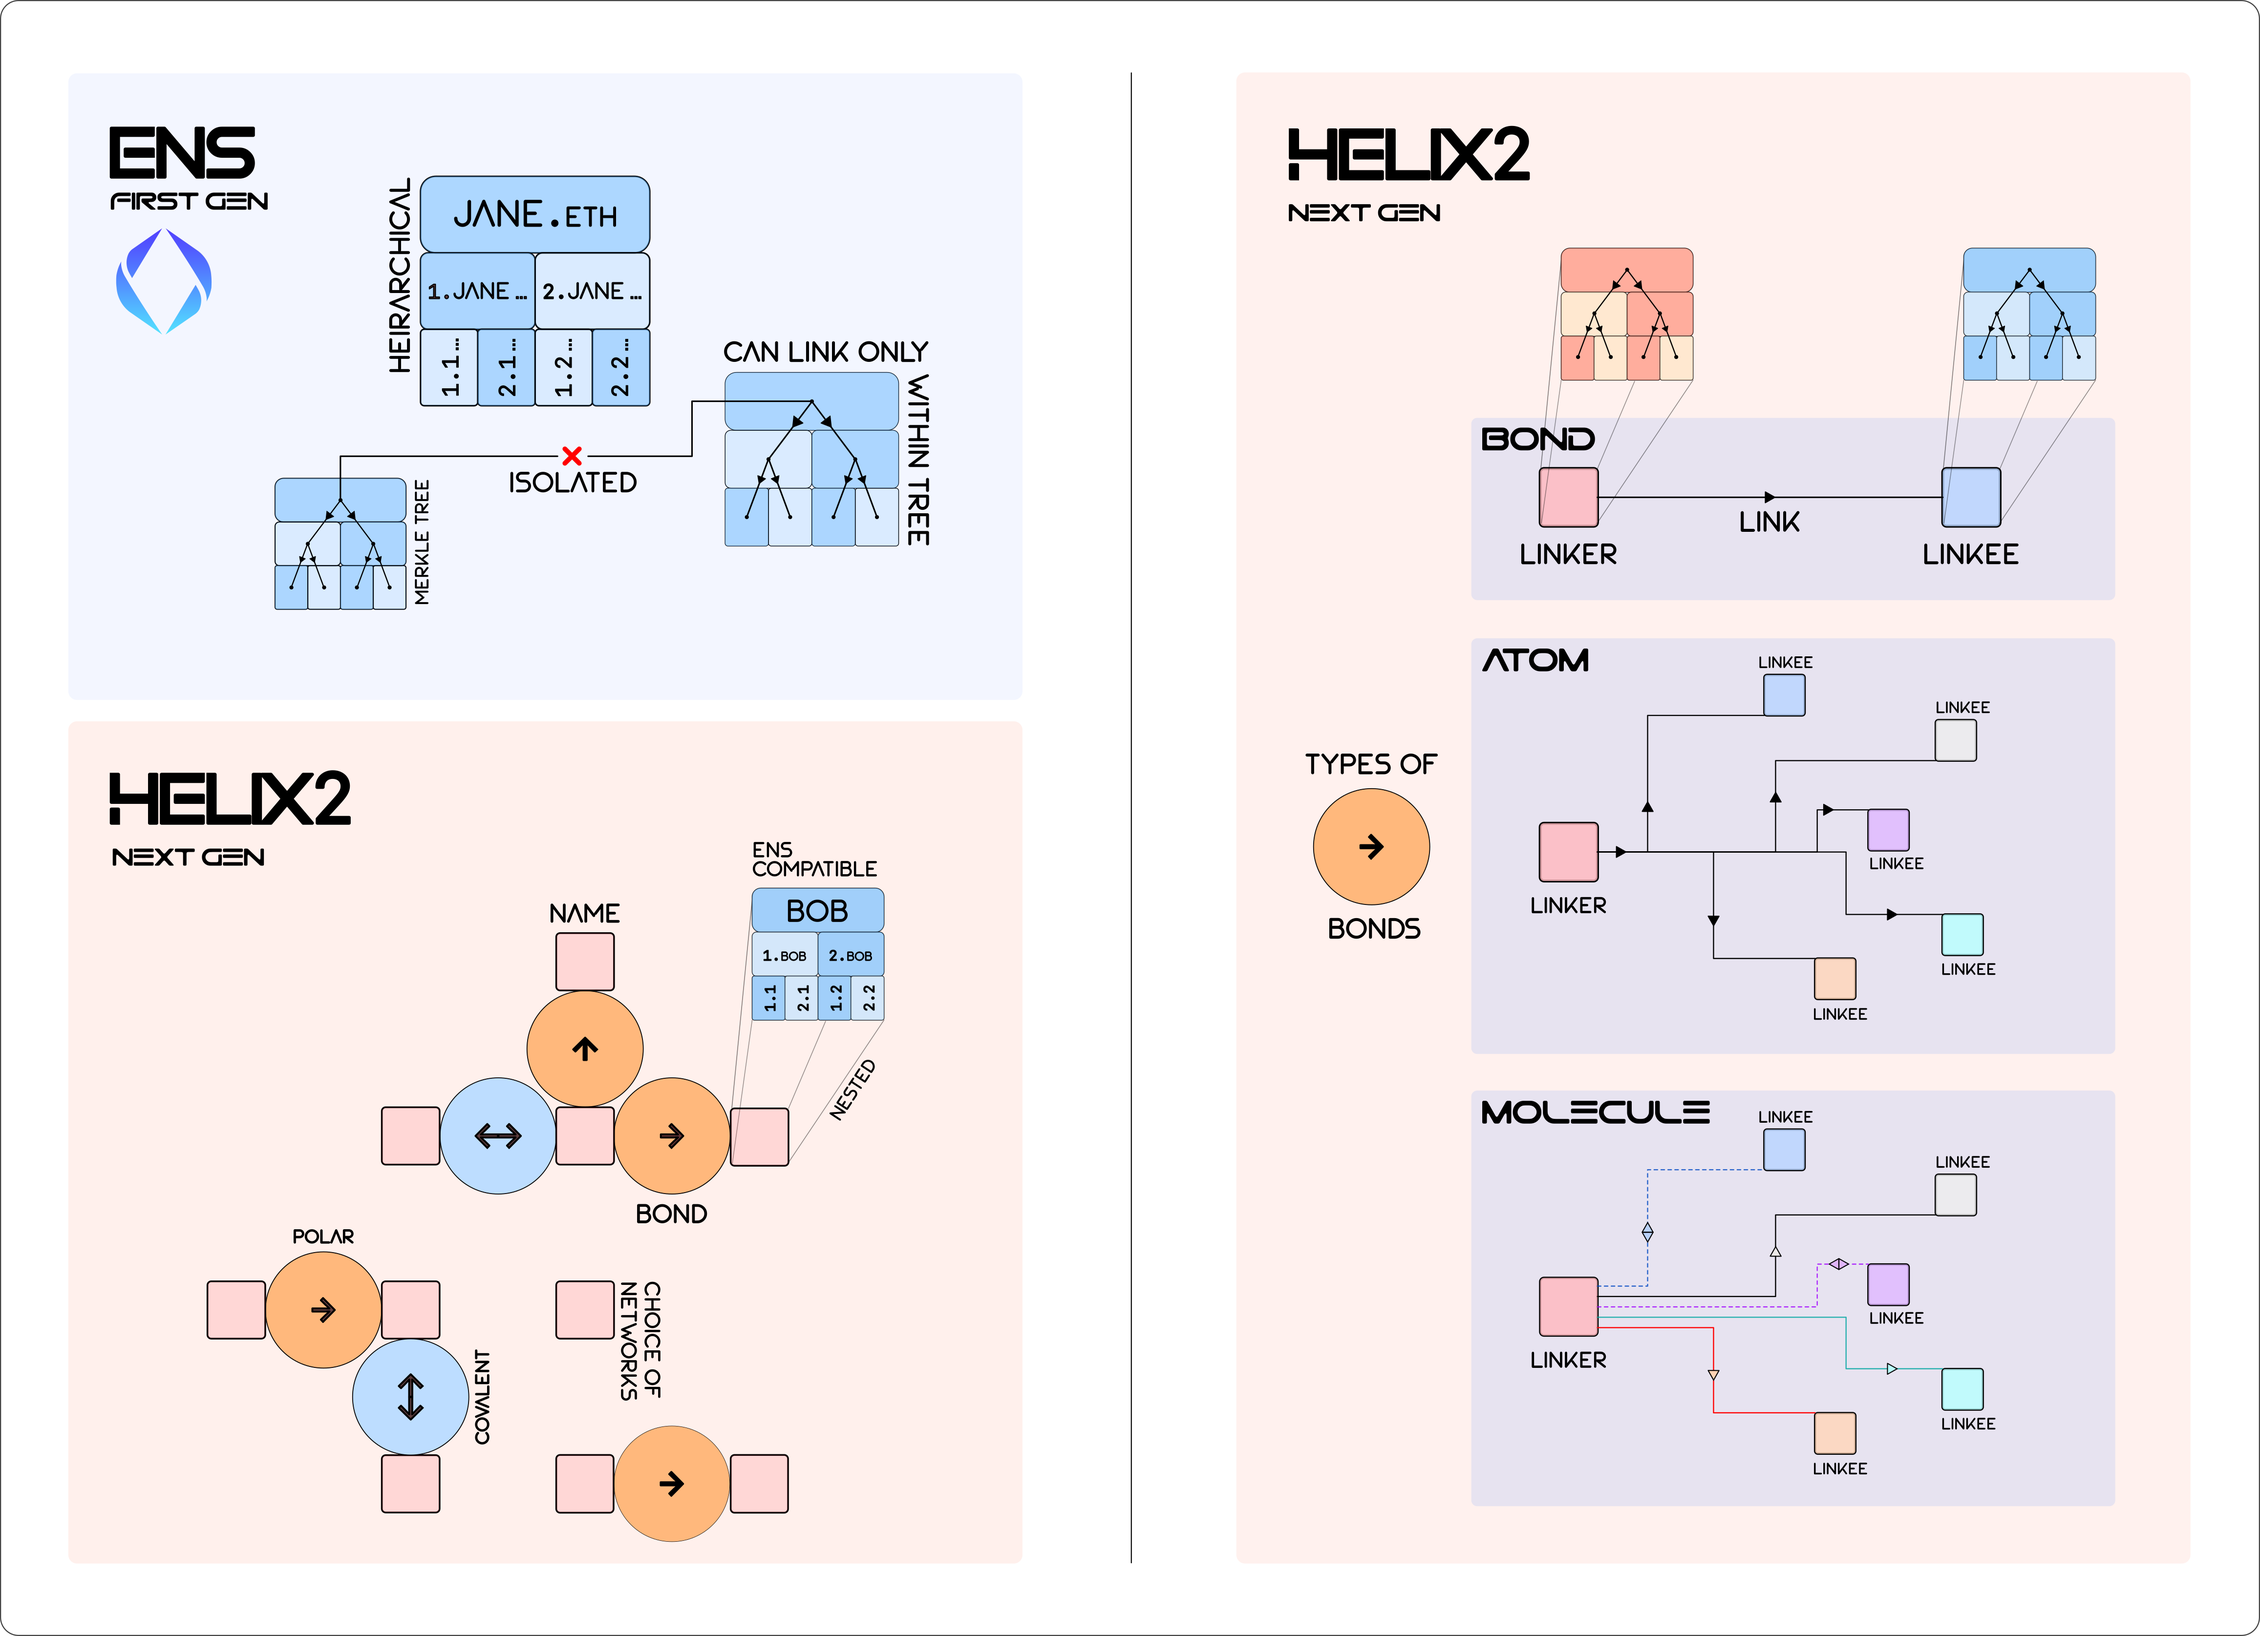
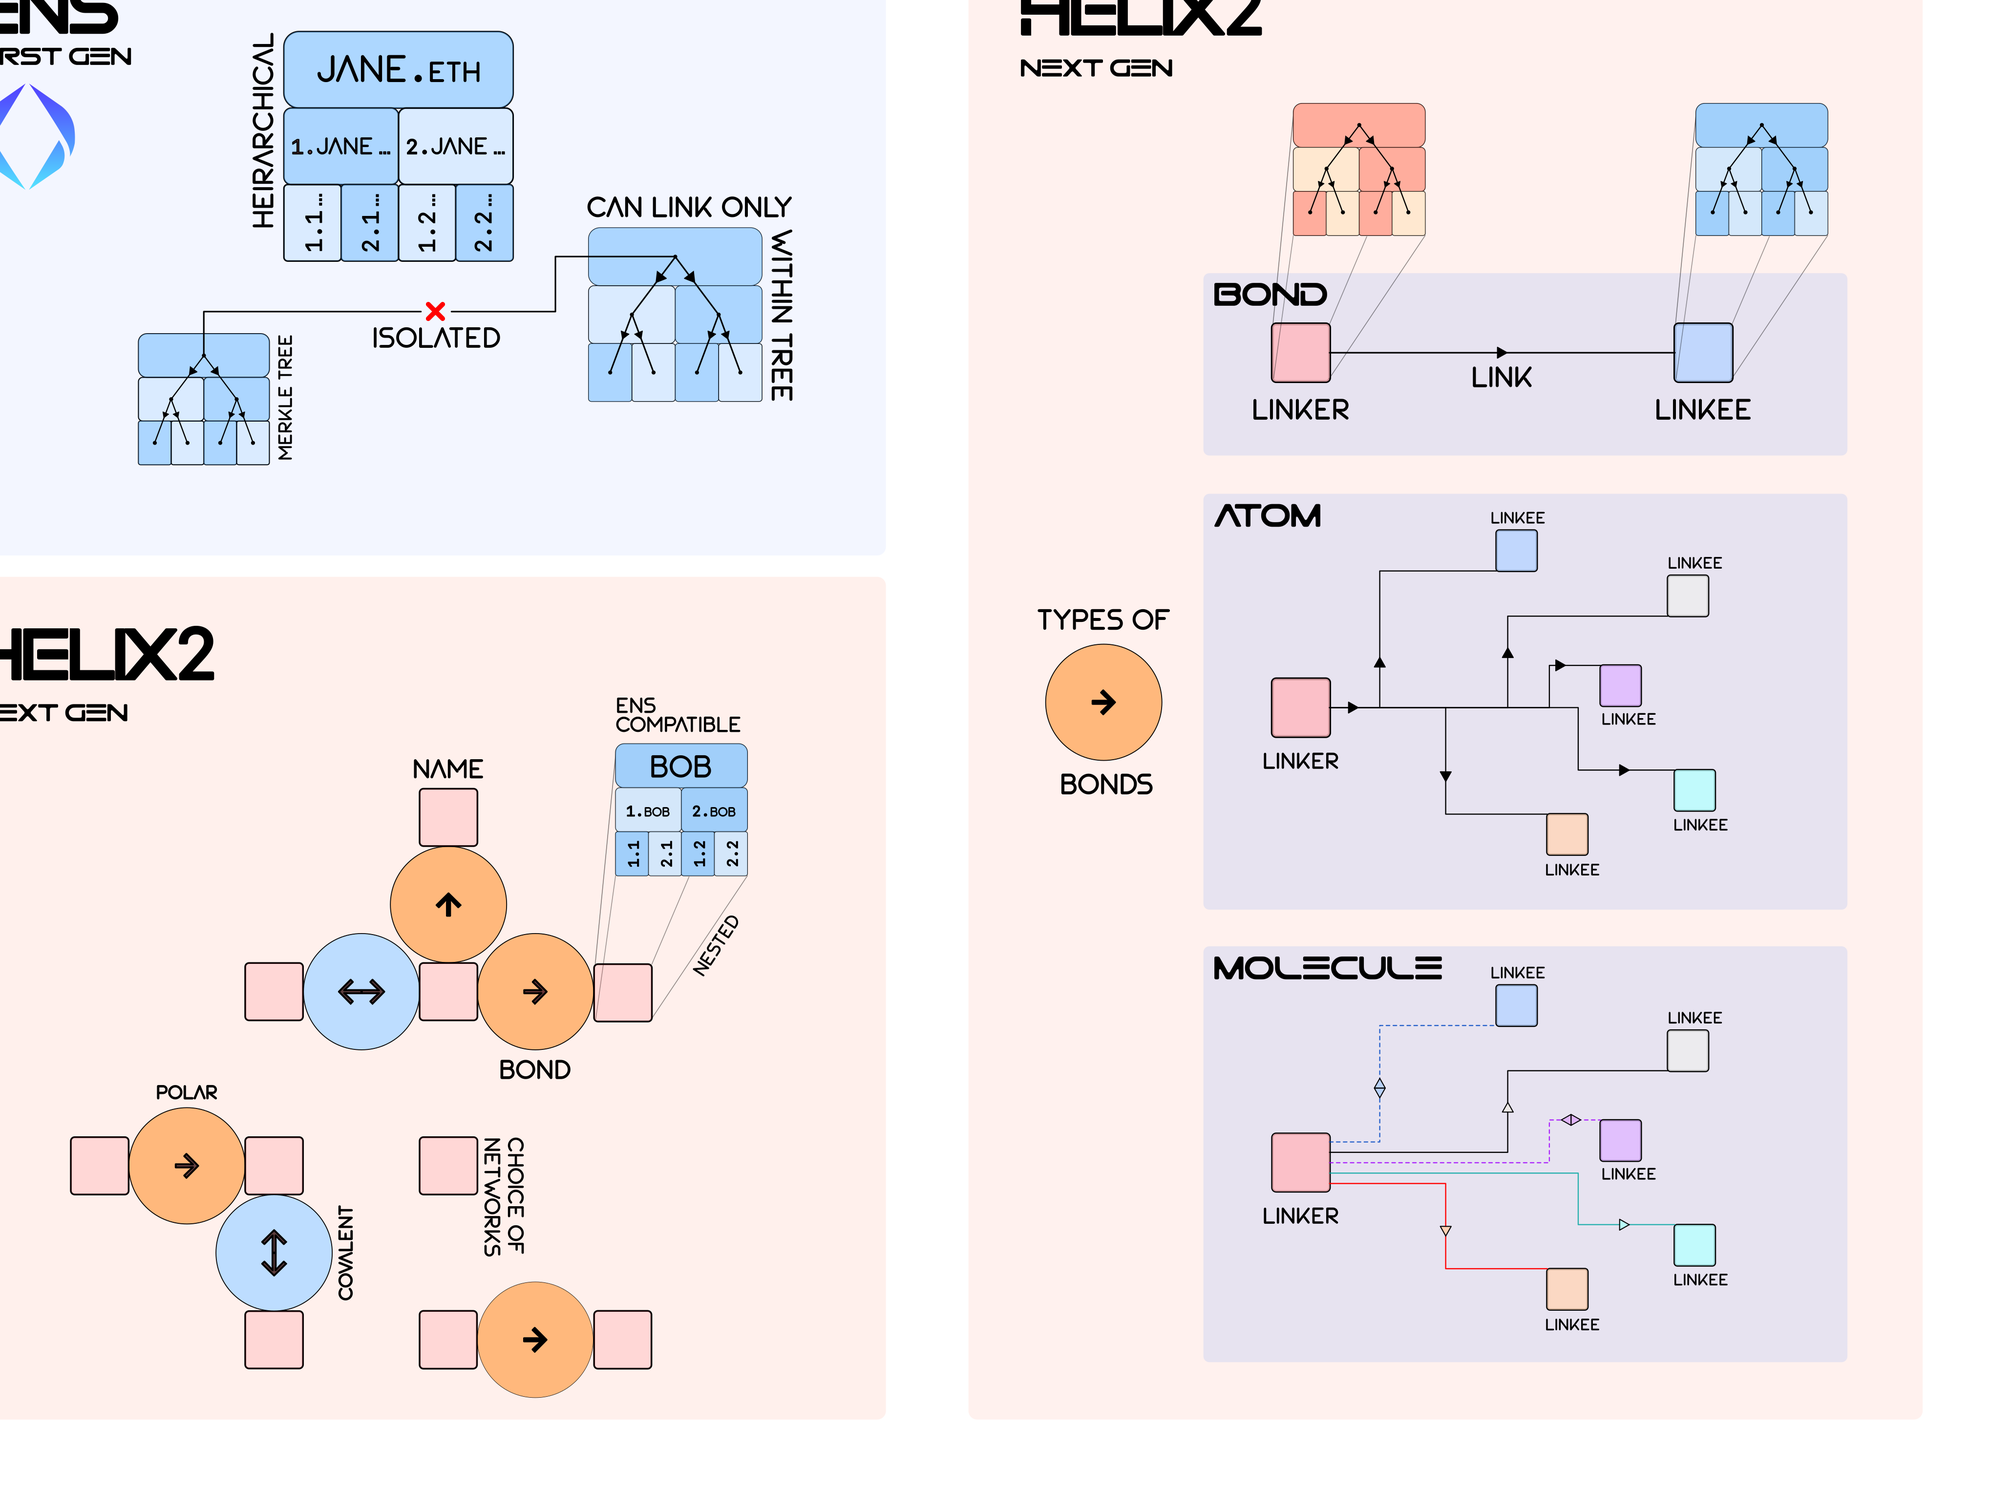
minor update

diff --git a/README.md b/README.md
@@ -30,7 +30,8 @@ b)  **covalent** bond: when `nick?bob: == bob?nick:`, i.e. when the bond between
 5. Helix2 allows for multi-bonding such that a cation can bond with multiple anions within one data structure instead of creating individual (and costlier) bonds; this structure is called an **atom**. In an atom, individual bonds between a cation and the set of anions may be covalent or polar.
 6. Lastly, we can define the highest form of abstraction in the form of a **molecule**, which is an atom comprising of *unique* bonds between a cation and a set of anions. In an molecule, individual bonds between the cation and anions may be covalent or polar.
 
-
+&nbsp;
+![](https://raw.githubusercontent.com/helix-coupler/resources/master/helix2.png)
 
 ## Architecture
 
